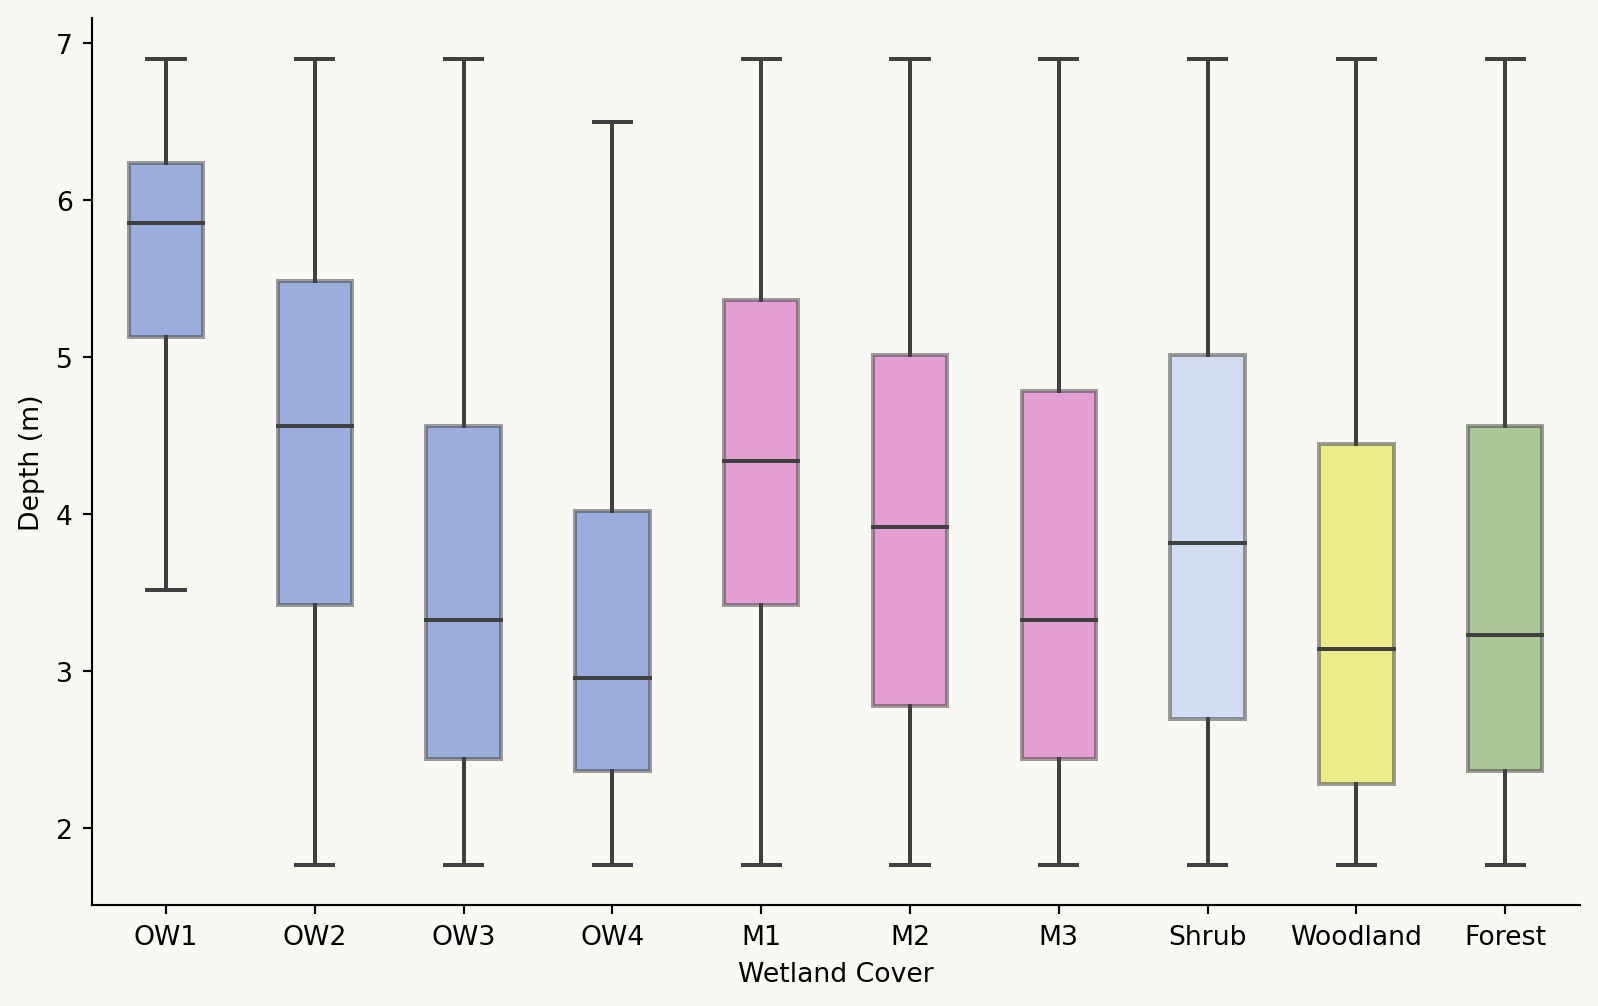
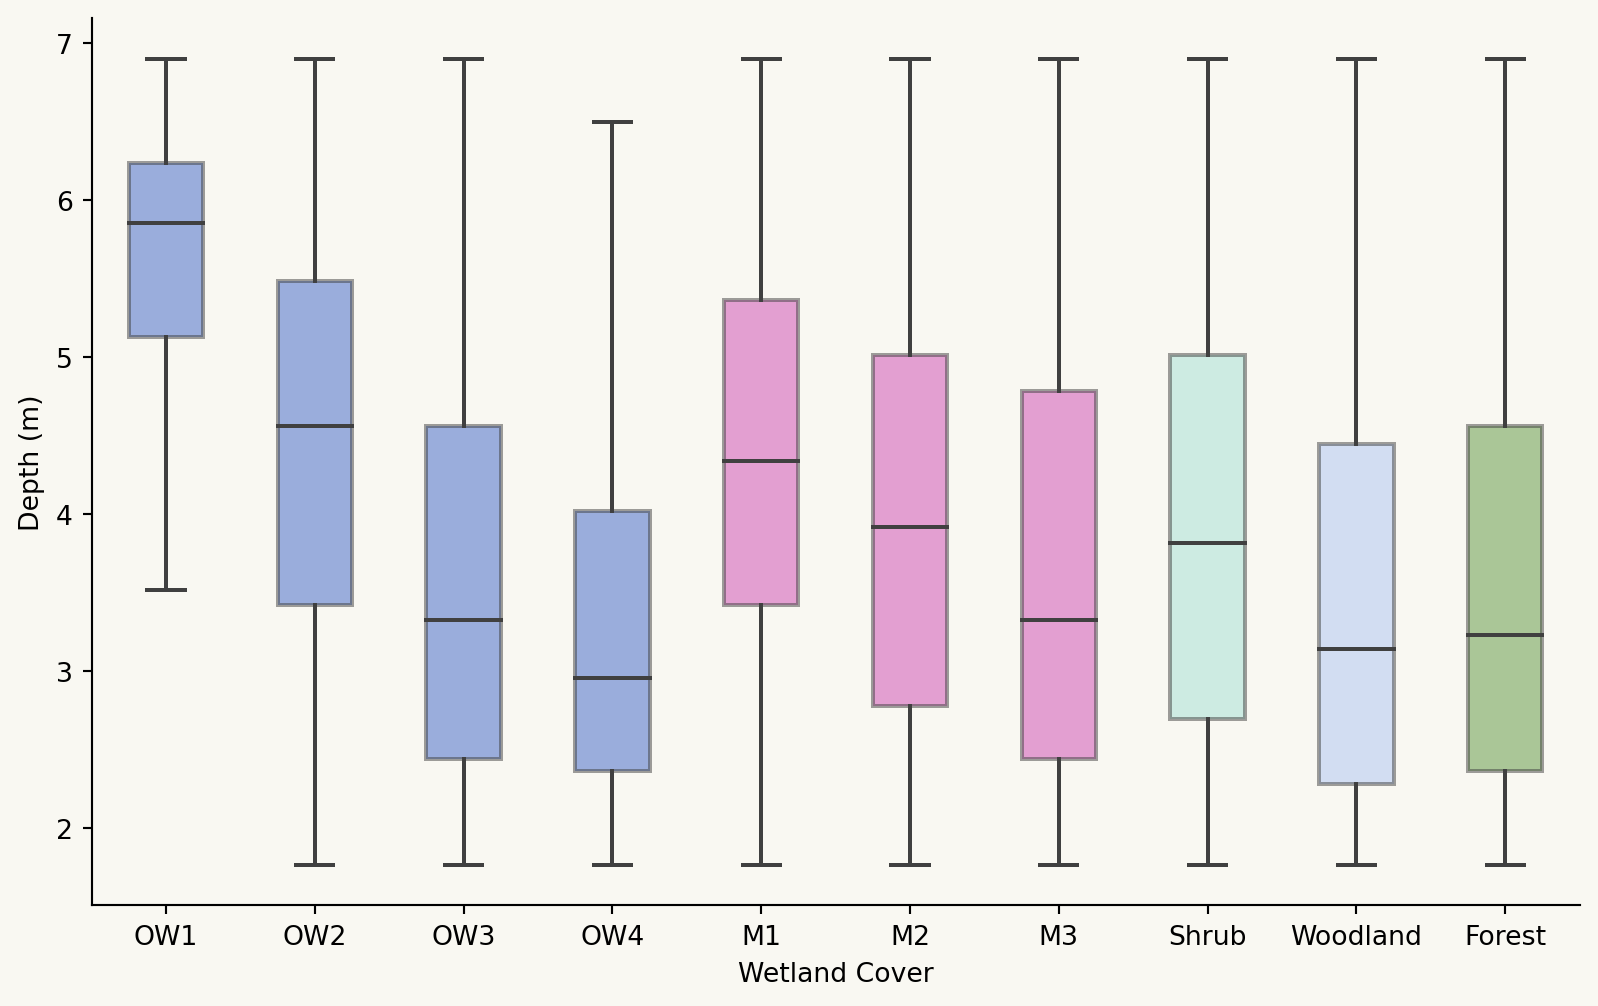
WJ_26Dec

Changed region(s): [[0.8279, 0.4314, 0.8892, 0.8012]]

diff --git a/docs/5-Comparison.html b/docs/5-Comparison.html
@@ -249,9 +249,8 @@ pre > code.sourceCode > span > a:first-child::before { text-decoration: underlin
 </header>
 
 
-<p>Grouping the calculated bathymetry values by wetland cover and visualizing them as boxplots, an interesting pattern emerges. Wetland cover is grouped by colour into open water (OW), macrophytes (M), shrub, woodland, and forest. Considering the overall average of each group, the depth generally decreases from open water to flooded forests.</p>
-<p>However, within the open water group and the macrophyte group, there is significant variation. OW1: Open water in both low-water and high-water stage OW2: Non-flooded soil/ herbaceous, open water OW3: Non-flooded shrub, open water OW4: Flooded shrub, open water</p>
-<p>M1: Open water at low, macrophyte at high M2: Non-flooded soil/ herbaceous, macrophyte M3: Macrophyte, macrophyte</p>
+<p>Grouping the bathymetry values by wetland cover and visualizing them as boxplots, an interesting pattern emerges. Wetland cover is defined as open water (OW), macrophytes (M), shrub, woodland, and forest, with the colours in the boxplot corresponding to the colours in the wetland extent map.</p>
+<p>Considering the overall average of each group, the depth generally decreases from open water to macrophytes and to flooded forests. This is expected because the forests are found further away from the water bodies than the macrophytes, and macrophytes are adapted to life in water, while the forests are only seasonally inundated.</p>
 <div id="cell-fig-comparison" class="cell" data-execution_count="1">
 <details class="code-fold">
 <summary>Code</summary>
@@ -296,7 +295,7 @@ pre > code.sourceCode > span > a:first-child::before { text-decoration: underlin
 <span id="cb1-39"><a href="#cb1-39" aria-hidden="true" tabindex="-1"></a><span class="co"># Palette</span></span>
 <span id="cb1-40"><a href="#cb1-40" aria-hidden="true" tabindex="-1"></a>palette <span class="op">=</span> [<span class="st">'#2559DE'</span>, <span class="st">'#2559DE'</span>, <span class="st">'#2559DE'</span>, <span class="st">'#2559DE'</span>, </span>
 <span id="cb1-41"><a href="#cb1-41" aria-hidden="true" tabindex="-1"></a>           <span class="st">'#E432BF'</span>, <span class="st">'#E432BF'</span>, <span class="st">'#E432BF'</span>, </span>
-<span id="cb1-42"><a href="#cb1-42" aria-hidden="true" tabindex="-1"></a>           <span class="st">'#A0C0FF'</span>, <span class="st">'#FFFF00'</span>, <span class="st">'#59A52F'</span>]</span>
+<span id="cb1-42"><a href="#cb1-42" aria-hidden="true" tabindex="-1"></a>           <span class="st">'#97EBD9'</span>, <span class="st">'#A0C0FF'</span>, <span class="st">'#59A52F'</span>]</span>
 <span id="cb1-43"><a href="#cb1-43" aria-hidden="true" tabindex="-1"></a></span>
 <span id="cb1-44"><a href="#cb1-44" aria-hidden="true" tabindex="-1"></a><span class="co"># Labels</span></span>
 <span id="cb1-45"><a href="#cb1-45" aria-hidden="true" tabindex="-1"></a>labels <span class="op">=</span> [<span class="st">'OW1'</span>, <span class="st">'OW2'</span>, <span class="st">'OW3'</span>, <span class="st">'OW4'</span>, <span class="st">'M1'</span>, <span class="st">'M2'</span>, <span class="st">'M3'</span>, <span class="st">'Shrub'</span>, <span class="st">'Woodland'</span>, <span class="st">'Forest'</span>]</span>
@@ -336,6 +335,54 @@ Figure&nbsp;1: Box plot of bathymetry by wetland cover
 </div>
 </div>
 </div>
+<p>Within the open water group and the macrophyte group, bathymetry values vary depending on the vegetation cover of each group at low-water stage. From open water, to non-flooded herbaceous and flooded herbaceous, and to non-flooded shrub and flooded shrub, the average bathymetry decreases clearly, especially for the open water group. As discussed, this trend reflects the natural distribution of vegetation, with shrubs typically located further from the water bodies than herbaceous plants.</p>
+<table class="caption-top table">
+<caption>Table 1: Types of open water and macrophyte cover</caption>
+<thead>
+<tr class="header">
+<th style="text-align: left;">Category</th>
+<th style="text-align: left;">Low-water stage</th>
+<th style="text-align: left;">High-water stage</th>
+</tr>
+</thead>
+<tbody>
+<tr class="odd">
+<td style="text-align: left;">OW1</td>
+<td style="text-align: left;">Open water</td>
+<td style="text-align: left;">Open water</td>
+</tr>
+<tr class="even">
+<td style="text-align: left;">OW2</td>
+<td style="text-align: left;">Non-flooded soil/ herbaceous</td>
+<td style="text-align: left;">Open water</td>
+</tr>
+<tr class="odd">
+<td style="text-align: left;">OW3</td>
+<td style="text-align: left;">Non-flooded shrub</td>
+<td style="text-align: left;">Open water</td>
+</tr>
+<tr class="even">
+<td style="text-align: left;">OW4</td>
+<td style="text-align: left;">Flooded shrub</td>
+<td style="text-align: left;">Open water</td>
+</tr>
+<tr class="odd">
+<td style="text-align: left;">M1</td>
+<td style="text-align: left;">Open water</td>
+<td style="text-align: left;">Macrophyte</td>
+</tr>
+<tr class="even">
+<td style="text-align: left;">M2</td>
+<td style="text-align: left;">Non-flooded soil/ herbaceous</td>
+<td style="text-align: left;">Macrophyte</td>
+</tr>
+<tr class="odd">
+<td style="text-align: left;">M3</td>
+<td style="text-align: left;">Macrophyte (flooded herbaceous)</td>
+<td style="text-align: left;">Macrophyte</td>
+</tr>
+</tbody>
+</table>
 
 
 

diff --git a/docs/3_background.html b/docs/3_background.html
@@ -301,7 +301,7 @@ pre > code.sourceCode > span > a:first-child::before { text-decoration: underlin
             <meta name=&quot;viewport&quot; content=&quot;width=device-width,
                 initial-scale=1.0, maximum-scale=1.0, user-scalable=no&quot; />
             <style>
-                #map_2d3cd8d1d10fc3c79a9213b6d0de3dbe {
+                #map_9318b280e264b23a46feecd3a0091fa7 {
                     position: relative;
                     width: 100.0%;
                     height: 100.0%;
@@ -315,14 +315,14 @@ pre > code.sourceCode > span > a:first-child::before { text-decoration: underlin
 <body>
     
     
-            <div class=&quot;folium-map&quot; id=&quot;map_2d3cd8d1d10fc3c79a9213b6d0de3dbe&quot; ></div>
+            <div class=&quot;folium-map&quot; id=&quot;map_9318b280e264b23a46feecd3a0091fa7&quot; ></div>
         
 </body>
 <script>
     
     
-            var map_2d3cd8d1d10fc3c79a9213b6d0de3dbe = L.map(
-                &quot;map_2d3cd8d1d10fc3c79a9213b6d0de3dbe&quot;,
+            var map_9318b280e264b23a46feecd3a0091fa7 = L.map(
+                &quot;map_9318b280e264b23a46feecd3a0091fa7&quot;,
                 {
                     center: [-2.7, -57.0],
                     crs: L.CRS.EPSG3857,
@@ -331,38 +331,38 @@ pre > code.sourceCode > span > a:first-child::before { text-decoration: underlin
                     preferCanvas: false,
                 }
             );
-            L.control.scale().addTo(map_2d3cd8d1d10fc3c79a9213b6d0de3dbe);
+            L.control.scale().addTo(map_9318b280e264b23a46feecd3a0091fa7);
 
             
 
         
     
-            var tile_layer_b03c297a9a4ce3868379cbc8e675cbcc = L.tileLayer(
+            var tile_layer_41a02cfbf64c9d697b5913b330803631 = L.tileLayer(
                 &quot;https://{s}.tile.openstreetmap.org/{z}/{x}/{y}.png&quot;,
                 {&quot;attribution&quot;: &quot;Data by \u0026copy; \u003ca target=\&quot;_blank\&quot; href=\&quot;http://openstreetmap.org\&quot;\u003eOpenStreetMap\u003c/a\u003e, under \u003ca target=\&quot;_blank\&quot; href=\&quot;http://www.openstreetmap.org/copyright\&quot;\u003eODbL\u003c/a\u003e.&quot;, &quot;detectRetina&quot;: false, &quot;maxNativeZoom&quot;: 18, &quot;maxZoom&quot;: 18, &quot;minZoom&quot;: 0, &quot;noWrap&quot;: false, &quot;opacity&quot;: 1, &quot;subdomains&quot;: &quot;abc&quot;, &quot;tms&quot;: false}
-            ).addTo(map_2d3cd8d1d10fc3c79a9213b6d0de3dbe);
+            ).addTo(map_9318b280e264b23a46feecd3a0091fa7);
         
     
-            var tile_layer_ee05ec05c47863e04261849cf0f48b9e = L.tileLayer(
+            var tile_layer_f3fbc94f3fd11ac244727948f7d5f6c9 = L.tileLayer(
                 &quot;https://server.arcgisonline.com/ArcGIS/rest/services/World_Imagery/MapServer/tile/{z}/{y}/{x}&quot;,
                 {&quot;attribution&quot;: &quot;Esri&quot;, &quot;detectRetina&quot;: false, &quot;maxNativeZoom&quot;: 18, &quot;maxZoom&quot;: 18, &quot;minZoom&quot;: 0, &quot;noWrap&quot;: false, &quot;opacity&quot;: 1, &quot;subdomains&quot;: &quot;abc&quot;, &quot;tms&quot;: false}
-            ).addTo(map_2d3cd8d1d10fc3c79a9213b6d0de3dbe);
+            ).addTo(map_9318b280e264b23a46feecd3a0091fa7);
         
     
-            var layer_control_5a6b7bf01f210b9b64d714d2d82a5743 = {
+            var layer_control_2625f52185b8892441a1326407d73e88 = {
                 base_layers : {
-                    &quot;openstreetmap&quot; : tile_layer_b03c297a9a4ce3868379cbc8e675cbcc,
-                    &quot;Esri Satellite&quot; : tile_layer_ee05ec05c47863e04261849cf0f48b9e,
+                    &quot;openstreetmap&quot; : tile_layer_41a02cfbf64c9d697b5913b330803631,
+                    &quot;Esri Satellite&quot; : tile_layer_f3fbc94f3fd11ac244727948f7d5f6c9,
                 },
                 overlays :  {
                 },
             };
             L.control.layers(
-                layer_control_5a6b7bf01f210b9b64d714d2d82a5743.base_layers,
-                layer_control_5a6b7bf01f210b9b64d714d2d82a5743.overlays,
+                layer_control_2625f52185b8892441a1326407d73e88.base_layers,
+                layer_control_2625f52185b8892441a1326407d73e88.overlays,
                 {&quot;autoZIndex&quot;: true, &quot;collapsed&quot;: true, &quot;position&quot;: &quot;topright&quot;}
-            ).addTo(map_2d3cd8d1d10fc3c79a9213b6d0de3dbe);
-            tile_layer_ee05ec05c47863e04261849cf0f48b9e.remove();
+            ).addTo(map_9318b280e264b23a46feecd3a0091fa7);
+            tile_layer_f3fbc94f3fd11ac244727948f7d5f6c9.remove();
         
 </script>
 </html>" width="100%" height="300" style="border:none !important;" "allowfullscreen"="" "webkitallowfullscreen"="" "mozallowfullscreen"=""></iframe>

diff --git a/docs/4-Bathymetry.html b/docs/4-Bathymetry.html
@@ -250,7 +250,7 @@ pre > code.sourceCode > span > a:first-child::before { text-decoration: underlin
 
 
 <p>Applying the IF-depth model to the inundation frequency across the middle-lower Amazon, the calculated bathymetry of the floodplain lakes ranges from 1.8m to 6.9m with respect to the high-water season. The shallowest depth starts at 1.8m because data points with IF under 50% were excluded.</p>
-<div id="2972bcb4" class="cell" data-execution_count="1">
+<div id="b13cd5cf" class="cell" data-execution_count="1">
 <details class="code-fold">
 <summary>Code</summary>
 <div class="sourceCode cell-code" id="cb1"><pre class="sourceCode python code-with-copy"><code class="sourceCode python"><span id="cb1-1"><a href="#cb1-1" aria-hidden="true" tabindex="-1"></a><span class="im">import</span> numpy <span class="im">as</span> np</span>
@@ -329,7 +329,7 @@ pre > code.sourceCode > span > a:first-child::before { text-decoration: underlin
 <div class="quarto-figure quarto-figure-center">
 <figure class="figure">
 <p><img src="images/bathymetry.jpg" class="img-fluid figure-img"></p>
-<figcaption>Figure 1: Bathymetry</figcaption>
+<figcaption>Figure 1: Bathymetry of middle-lower Amazon</figcaption>
 </figure>
 </div>
 <p>Zooming into the 12 lakes of interest, they have varying depths. Most lakes lie on the alluvial plain, the flat surface along the river banks formed from deposition of sediments over time. These lakes are large, round, and more shallow (lakes 1, 2, 5, 6, 9, 10, 11). However, some lakes are incised in valleys, lying near the foot of the upland rocks, hence are generally deeper (lakes 3, 8, 12). Interestingly, lakes 4 and 7 are divided into half by a thick ridge, where the lower half nearer to the alluvial plain is shallower, while the upper half nearer to the valleys is deeper.</p>

diff --git a/docs/7_ref.html b/docs/7_ref.html
@@ -216,6 +216,7 @@ ul.task-list li input[type="checkbox"] {
 <p>Johnson, K.K., Duncker, J.J., &amp; Jackson, P.R. (2012). The role of the US Geological Survey in Lake Michigan Diversion Accounting in Illinois, 1984-2010 (No.&nbsp;2012-1243). US Geological Survey. <a href="https://doi.org/10.3133/ofr20121243">https://doi.org/10.3133/ofr20121243</a></p>
 <p>Mortillaro, J.M., Passarelli, C., Abril, G., Hubas, C., Albéric, P., Artigas, L.F., … &amp; Meziane, T. (2016). The fate of C4 and C3 macrophyte carbon in central Amazon floodplain waters: Insights from a batch experiment. Limnologica, 59, 90-98. <a href="https://doi.org/10.1016/j.limno.2016.03.008">https://doi.org/10.1016/j.limno.2016.03.008</a></p>
 <p>Park, E., Emadzadeh, A., Alcântara, E., Yang, X., &amp; Ho, H.L. (2020). Inferring floodplain bathymetry using inundation frequency. Journal of Environmental Management, 273, 111138. <a href="https://doi.org/10.1016/j.jenvman.2020.111138">https://doi.org/10.1016/j.jenvman.2020.111138</a></p>
+<p>Pekel, J.-F., Cottam, A., Gorelick, N., Belward, A.S., 2016. High-resolution mapping of global surface water and its long-term changes. Nature 540, 418–422. <a href="https://doi.org/10.1038/nature20584">https://doi.org/10.1038/nature20584</a></p>
 <p>Wang, Y., He, X., Bai, Y., Wang, D., Zhu, Q., Gong, F., … &amp; Li, T. (2022). Satellite retrieval of benthic reflectance by combining lidar and passive high-resolution imagery: Case-I water. Remote Sensing of Environment, 272, 112955. <a href="https://doi.org/10.1016/j.rse.2022.112955">https://doi.org/10.1016/j.rse.2022.112955</a></p>
 
 

diff --git a/docs/6_conclusion.html b/docs/6_conclusion.html
@@ -207,6 +207,9 @@ ul.task-list li input[type="checkbox"] {
 
 <section id="conclusion" class="level1">
 <h1>Conclusion</h1>
+<p>This project presented the bathymetry of the middle-lower Amazon’s floodplain lakes, using inundation frequency (IF) data and an IF-depth model calibrated with a boat survey conducted at one of the lakes. The lakes range in depth from 1.8m to 6.9m, and can generally be classified into shallower lakes on the alluvial plain and deeper lakes located in valleys.</p>
+<p>A comparison of bathymetry and wetland cover data reveals a clear relationship between biodiversity and water depth, offering opportunities for further ecological research using the bathymetry data. Additionally, this data has applications beyond ecology, including mapping sediment distribution and modeling water circulation dynamics.</p>
+<p>The IF-depth model methodology addresses the limitations of traditional survey and remote sensing techniques, offering a versatile approach that could be applied to other rivers with sediment-rich, seasonally-inundated floodplain lakes.</p>
 
 
 </section>

diff --git a/docs/analysis/2-Wetland.html b/docs/analysis/2-Wetland.html
@@ -329,7 +329,7 @@ Figure&nbsp;1: Wetland extent during high-water stage
 </div>
 </div>
 </div>
-<p>The vegetation cover in the middle-lower Amazon is diverse, ranging from aquatic macrophytes (herbaceous plants) that grow in or near the water, to forests that are annually submerged under 10 metres of water.</p>
+<p>The vegetation cover in the middle-lower Amazon is diverse, ranging from aquatic macrophytes (herbaceous plants) that grow in or near the water, to forests that are annually submerged under water.</p>
 <div class="grid">
 <div class="g-col-6">
 <div id="plant1" class="quarto-figure quarto-figure-center anchored">
